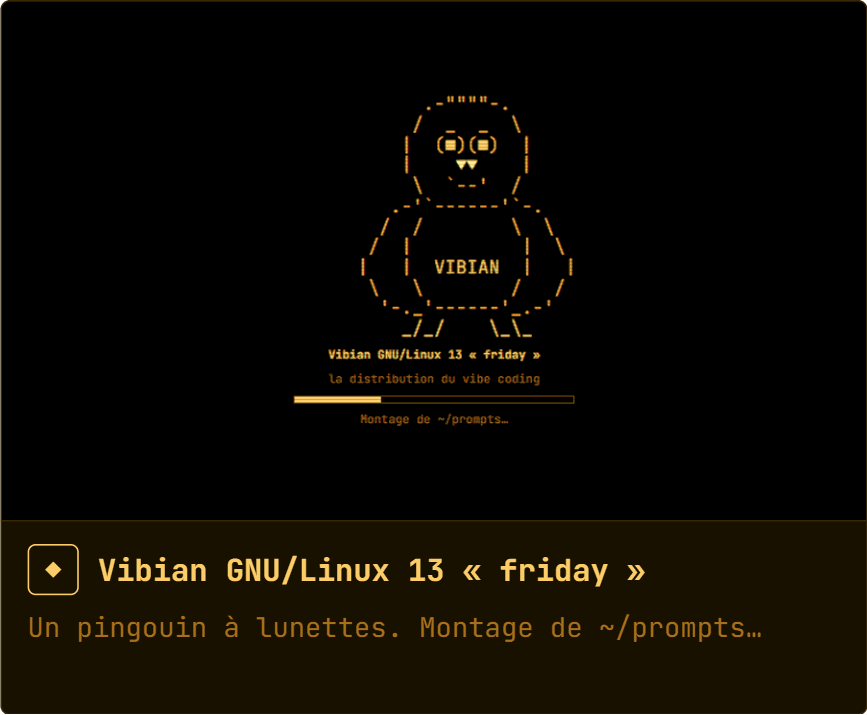
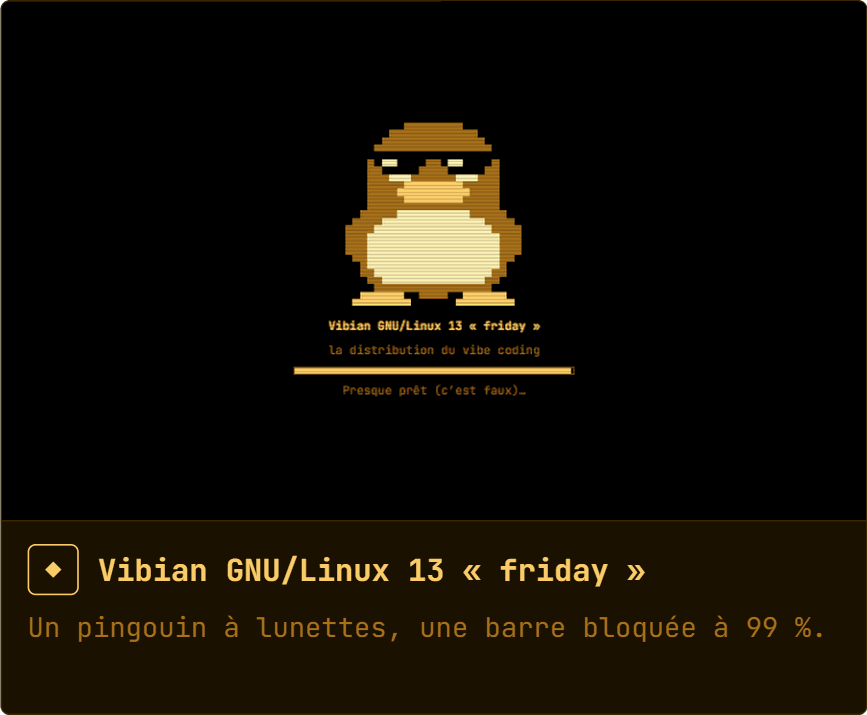
docs: les nouveautés passent à 23, le README chausse ses lunettes
- Mise à jour n° 23 sur la page des nouveautés : Lolama par apt,
  vibe « demande », le pingouin en pixel art, la barre qui s'arrête à
  99 %. Une capture : le nouveau pingouin.
- README : Lolama s'installe avec apt, « Vibe à la demande » dans les
  fonctionnalités, le démarrage et sa barre, la carte du pingouin.
- Lignes du jeu : 10 924 → 10 971 (README, CONTRIBUTING, badge,
  bannière, schéma, chiffres). Lignes relues : 0. Barres bloquées à
  99 % : une, et c'est voulu.

Claude-Session: https://claude.ai/code/session_01Ly259ZiaRJJ7AzLMxAi3nU

Changed region(s): [[0.3426, 0.1231, 0.6851, 0.6154], [0.4671, 0.8615, 0.9343, 0.8923]]

diff --git a/nouveautes.html b/nouveautes.html
@@ -136,9 +136,9 @@ footer p + p { margin-top: .5em; }
   </nav>
 
   <div class="stats" role="list" aria-label="En chiffres">
-    <div role="listitem"><b>22</b><span>mises à jour</span></div>
-    <div role="listitem"><b>36 h 58</b><span>du premier au dernier commit</span></div>
-    <div role="listitem"><b>6 492 → 10 924</b><span>lignes dans index.html</span></div>
+    <div role="listitem"><b>23</b><span>mises à jour</span></div>
+    <div role="listitem"><b>38 h 08</b><span>du premier au dernier commit</span></div>
+    <div role="listitem"><b>6 492 → 10 971</b><span>lignes dans index.html</span></div>
     <div role="listitem"><b>0</b><span>ligne relue (stable)</span></div>
   </div>
   <p class="legend"><b class="p">+</b> ajouté · <b class="t">~</b> modifié · <b class="m">−</b> retiré</p>
@@ -146,6 +146,7 @@ footer p + p { margin-top: .5em; }
   <nav class="toc" aria-labelledby="toc-t">
     <h2 id="toc-t">Sommaire</h2>
     <ol>
+      <li><span class="n">#23</span><time datetime="2026-11-24T01:35">01 h 35</time><a href="#correctifs">Correctifs : Lolama par apt, vibe « demande », un pingouin tout neuf</a></li>
       <li><span class="n">#22</span><time datetime="2026-11-24T00:25">00 h 25</time><a href="#nano">nano, et des réglages qui ont leur propre écran</a></li>
       <li><span class="n">#21</span><time datetime="2026-11-23T23:07">23 h 07</time><a href="#vlc">VLC, et la première musique faite par un humain</a></li>
       <li><span class="n">#20</span><time datetime="2026-11-23T20:54">20 h 54</time><a href="#sauvegarde">Exporter et importer la partie</a></li>
@@ -171,8 +172,23 @@ footer p + p { margin-top: .5em; }
     </ol>
   </nav>
 
-  <article class="maj latest" id="nano" aria-labelledby="t22">
-    <p class="meta"><span class="n">#22</span><span class="new">dernière</span><time datetime="2026-11-24T00:25">24 nov. 2026 · 00 h 25</time><a href="https://github.com/lucv78-coder/ai-devops-chaos-simulator/commit/012df46">012df46</a><span>10 558 → 10 924 lignes</span></p>
+  <article class="maj latest" id="correctifs" aria-labelledby="t23">
+    <p class="meta"><span class="n">#23</span><span class="new">dernière</span><time datetime="2026-11-24T01:35">24 nov. 2026 · 01 h 35</time><a href="https://github.com/lucv78-coder/ai-devops-chaos-simulator/commit/18bfe89">18bfe89</a><span>10 924 → 10 971 lignes</span></p>
+    <h2 id="t23"><a href="#correctifs">Correctifs : Lolama par apt, vibe « demande », un pingouin tout neuf</a></h2>
+    <ul>
+      <li>Lolama est un paquet : sudo apt install lolama (ollama marche aussi). apt remove le retire. Le bouton de lolama.vibe et le script curl restent, et apt sait ce qu’ils ont installé.</li>
+      <li>Une commande inconnue reste inconnue, même quand les agents tournent : plus de code au hasard pour une faute de frappe. Le code se demande : vibe « fais un site » (ou vibe -p « … », comme le vrai Vibe CLI) l’écrit tout de suite dans le terminal, et le facture à Codestral. vibe seul lance toujours l’équipe Mistral.</li>
+      <li>Le pingouin du démarrage est redessiné en pixel art : masque blanc, bec, ailerons, et des lunettes de soleil qui lui tombent sur les yeux pendant le chargement. Il se dandine (sauf si le système demande moins d’animations).</li>
+      <li>La barre de chargement de Vibian avance par à-coups : des bonds, des arrêts, jamais au même endroit, et 99 % qui dure. Comme une vraie.</li>
+    </ul>
+    <blockquote>« 99 %, c’est déjà presque fini. Comme mes tests. »<cite>l’agent, 01 h 35</cite></blockquote>
+    <div class="shots">
+      <figure><a href="assets/screen-tux.png" title="Voir en grand"><img src="assets/screen-tux.png" width="900" height="540" loading="lazy" alt="L’écran de démarrage de Vibian GNU/Linux 13 « friday » : un pingouin en pixel art, lunettes de soleil sur les yeux, et la barre de chargement bloquée à 99 % sur « Presque prêt (c’est faux)… »."></a><figcaption>Le nouveau pingouin, et 99 % qui dure.</figcaption></figure>
+    </div>
+  </article>
+
+  <article class="maj" id="nano" aria-labelledby="t22">
+    <p class="meta"><span class="n">#22</span><time datetime="2026-11-24T00:25">24 nov. 2026 · 00 h 25</time><a href="https://github.com/lucv78-coder/ai-devops-chaos-simulator/commit/012df46">012df46</a><span>10 558 → 10 924 lignes</span></p>
     <h2 id="t22"><a href="#nano">nano, et des réglages qui ont leur propre écran</a></h2>
     <ul>
       <li>nano, l’éditeur du terminal : nano fichier (sudo nano pour ceux de root ; pico aussi). La barre du haut, la ligne d’état, deux lignes de raccourcis, qui se cliquent : ^O écrire, ^X quitter (« Sauver le tampon modifié ? »), ^F chercher, ^\ remplacer, ^K couper, ^U coller, ^R insérer un fichier, ^C la position, ^G l’aide. Sous Xfce, il a sa fenêtre.</li>

diff --git a/README.md b/README.md
@@ -16,7 +16,7 @@
   <img src="assets/badges/build.svg" alt="build : passing / failing / hallucinating / vibing">
   <img src="assets/badges/coverage.svg" alt="coverage : 98 % / 137 % / 420 % / NaN %">
   <img src="assets/badges/tests.svg" alt="tests : 0 / 0 passed">
-  <img src="assets/badges/relues.svg" alt="lignes relues : 0 / 10 924">
+  <img src="assets/badges/relues.svg" alt="lignes relues : 0 / 10 971">
   <br>
   <img src="assets/badges/review.svg" alt="code review : LGTM (par l'agent)">
   <img src="assets/badges/deploy.svg" alt="deploy : vendredi 17 h">
@@ -50,11 +50,12 @@ C'est un idle game : le jeu se joue tout seul. Comme votre carrière depuis 2025
 - **Agentic-first.** De 1 à 8 agents en parallèle, plus un orchestrateur qui délègue tout, y compris la délégation.
 - **Zero-shot deploy.** La barre de ship se remplit toute seule et le projet part en prod sans que personne sache ce qu'il contient. Exactement comme en vrai.
 - **Hallucination-native.** Les agents Mistral inventent des fichiers, des API, des bugs et, une fois, un collègue.
+- **Vibe à la demande.** `vibe "fais un site"` : Vibe CLI écrit le code tout de suite dans le terminal, et le facture. Une faute de frappe, elle, reste une faute de frappe : plus de code au hasard.
 - **Token-aware.** Chaque ship rapporte de l'argent, moins la facture des tokens. Spoiler : la facture gagne souvent.
 - **Store intégré.** Trois rayons : agents IA, plateformes, matériel PC. Trois niveaux d'orchestrateur, des modèles plus chers, un terminal plus rapide et 14 skills, de « tests unitaires » à « lire CLAUDE.md (pour de vrai) », à un million de dollars.
 - **Multi-plateforme.** Démarrez sur le pire agent, puis achetez Codex et Claude Code. Chaque plateforme garde son équipe : une au premier plan, les autres en arrière-plan, si le PC suit. Avant, c'était un choix irréversible, comme un mariage. Maintenant, c'est trois factures de tokens.
 - **Modes boost.** `ultracode` pour Claude Code, `xhigh` pour Codex, `flash` pour Mistral : achetés au store, une minute par jour, prolongeables jusqu'à trois. L'agent a demandé un mode boost pour le mode boost. On lui a dit de revenir demain.
-- **IA locale.** Installez Lolama ou StudioLM depuis Firefaux, puis un modèle de 2 à 72 milliards de paramètres. Zéro token facturé, toute la VRAM prise. Chaque agent ajouté double la VRAM demandée, et un modèle trop gros pour la carte graphique fait redémarrer le PC sur un kernel panic. L'agent appelle ça « de l'inférence souveraine ».
+- **IA locale.** Installez Lolama (`sudo apt install lolama`, ou depuis Firefaux) ou StudioLM, puis un modèle de 2 à 72 milliards de paramètres. Zéro token facturé, toute la VRAM prise. Chaque agent ajouté double la VRAM demandée, et un modèle trop gros pour la carte graphique fait redémarrer le PC sur un kernel panic. L'agent appelle ça « de l'inférence souveraine ».
 - **Progression à la sueur des tokens.** Le deuxième agent arrive en moins de 3 minutes, l'orchestrateur vers 30 minutes, Claude Code vers 1 h 35, la fin du store vers 5 h. Ce sont les chiffres d'un joueur parfait simulé, et vous n'êtes pas un joueur parfait.
 - **Mode hors ligne.** Vos agents continuent de shipper pendant votre absence, 4 h au maximum : le temps d'une réunion qui aurait pu être un mail.
 - **Bureau Linux complet.** `xfce` lance un vrai faux bureau avec fenêtres, icônes à double-cliquer, gestionnaire de fichiers, éditeur et lecteur PDF. Le gestionnaire de fichiers copie, coupe, colle, renomme et affiche les propriétés, à la vitesse du disque : 41,3 Go à 90 Mo/s, le disque dur gratte. `~/code` contient sept projets abandonnés, dont une IA de 68 Go et la todo app n° 14. Le disque est sauvegardé avec la partie : ce que vous créez ou supprimez est toujours là au prochain lancement, jusqu'au prochain crash système (retour à la sauvegarde de jeudi). La corbeille est toujours vide : ici, on supprime avec `rm -rf`. Vous pouvez supprimer `/bin`, ou le renommer. Vous ne devriez pas.
@@ -66,12 +67,12 @@ C'est un idle game : le jeu se joue tout seul. Comme votre carrière depuis 2025
 - **Kernel panic certifié.** L'écran donne la cause (« alimentation dépassée, 499 W demandés, 230 W disponibles »), une pile d'appels authentique (`tokens_burn_all`, `npm_install_universe`, `friday_deploy`), puis « Rebooting in 5 seconds.. ». Le PC redémarre sur le BIOS. Personne n'a lu la pile d'appels.
 - **Observabilité de niveau entreprise.** `htop` dit si le PC est OK, TENDU ou À TERRE, et pourquoi. `sensors` et `free` confirment. `sudo smartctl -a /dev/sda` lit le SMART du disque dur d'occasion : 38 412 heures, un secteur réalloué de plus tous les 5 jours, FAILED! dans 8 mois environ. L'agent, lui, dit que tout va bien.
 - **Firefaux.** Un navigateur dans Xfce, avec ses sites : Vibegle (résultats hallucinés), le store des agents, matos.vibe pour les composants, StackUnderflow, GitHype (le GitHub qui a racheté le nom de domaine) et lolama.vibe pour les modèles locaux. Toute autre adresse a été hallucinée par votre agent.
-- **Démarrage BIOS authentique.** Nouvelle partie et Continuer allument vraiment le PC : POST, GRUB, noyau `6.11.0-friday`, puis Vibian GNU/Linux et son pingouin. Neuf secondes sur la patate. Une touche pour passer, comme tout le monde. Ou Suppr pendant le POST, si vous êtes assez rapide : le setup du BIOS, façon AMIBIOS, pour overclocker le processeur et la RAM. Trop loin, l'écran glitche, les erreurs matérielles pleuvent et les agents plantent. On redescend d'un cran. `reboot` pour y retourner. Puis GRUB, avec un vrai menu : memtest86+ (enfin lancé), un mode sans agents, et un Windows 11 qui se met à jour.
+- **Démarrage BIOS authentique.** Nouvelle partie et Continuer allument vraiment le PC : POST, GRUB, noyau `6.11.0-friday`, puis Vibian GNU/Linux et son pingouin à lunettes, avec une barre de chargement qui avance par à-coups et s'arrête à 99 %. Neuf secondes sur la patate. Une touche pour passer, comme tout le monde. Ou Suppr pendant le POST, si vous êtes assez rapide : le setup du BIOS, façon AMIBIOS, pour overclocker le processeur et la RAM. Trop loin, l'écran glitche, les erreurs matérielles pleuvent et les agents plantent. On redescend d'un cran. `reboot` pour y retourner. Puis GRUB, avec un vrai menu : memtest86+ (enfin lancé), un mode sans agents, et un Windows 11 qui se met à jour.
 - **htop, tskill, apt, npm, un terminal de bunker antiatomique…** Tout ce qu'un agent a jugé indispensable à 3 h du matin.
 - **Bac à sable.** Une entrée du menu titre : tout est débloqué d'office (plateformes, 8 agents chacune, modèles, skills, matériel, modes boost sans limite par jour), avec une sauvegarde à part. La partie normale ne bouge pas. L'agent y a shippé 20 projets en 5 secondes.
 - **Bouton « tout effacer ».** Paramètres, Réinitialiser la partie, deux clics. L'agent a appris à demander confirmation. Une fois.
 - **Exporter, importer.** Paramètres, Exporter la partie : un fichier .vibe, et le même code dans le presse-papiers. Dans un autre navigateur, Importer une partie la reprend, disque, succès et temps de jeu compris. Les agents, eux, n'ont toujours pas de sauvegarde.
-- **Monolithe artisanal.** 1 fichier, 10 924 lignes, 0 dépendance. Une seule exception : une police d'écriture, l'agent a insisté. Le [journal des mises à jour](https://lucv78-coder.github.io/ai-devops-chaos-simulator/nouveautes.html) a eu droit à sa propre page : l'agent venait de découvrir qu'on pouvait créer un deuxième fichier. Puis un troisième : le [wiki](https://lucv78-coder.github.io/ai-devops-chaos-simulator/wiki.html), illustré, avec toutes les commandes (chacune se copie d'un clic), le store et le matériel.
+- **Monolithe artisanal.** 1 fichier, 10 971 lignes, 0 dépendance. Une seule exception : une police d'écriture, l'agent a insisté. Le [journal des mises à jour](https://lucv78-coder.github.io/ai-devops-chaos-simulator/nouveautes.html) a eu droit à sa propre page : l'agent venait de découvrir qu'on pouvait créer un deuxième fichier. Puis un troisième : le [wiki](https://lucv78-coder.github.io/ai-devops-chaos-simulator/wiki.html), illustré, avec toutes les commandes (chacune se copie d'un clic), le store et le matériel.
 
 ## <img src="assets/readme/g-hardware.svg" width="30" height="30" align="top" alt=""> Le matériel
 
@@ -113,7 +114,7 @@ Livraison en 0 seconde, installation à chaud, garantie zéro jour. Ne faites pa
 | **Vibe CLI** (Mistral) | gratuite | Codestral 25.08 | « Production-ready. » Il hallucine, plante, redémarre, et recommence. |
 | **Codex** | $1 500 | GPT-6.1 Terra : 1,6× le travail de Codestral, trois fois moins de bugs | « Enfin du sérieux. » |
 | **Claude Code** | $12 000 | Claude Opus 5.5 : 2,5× le travail de Codestral, quatre fois moins de bugs | « Celui-là signe ses commits. » |
-| **IA locale** (Lolama ou StudioLM) | gratuite, à installer depuis Firefaux | Jemma 3 2B : 13 % du travail de Codestral, 1,7 Go de VRAM | « Souverain. » Il tourne sur un grille-pain, à la vitesse d'un grille-pain. |
+| **IA locale** (Lolama ou StudioLM) | gratuite : `sudo apt install lolama`, ou depuis Firefaux | Jemma 3 2B : 13 % du travail de Codestral, 1,7 Go de VRAM | « Souverain. » Il tourne sur un grille-pain, à la vitesse d'un grille-pain. |
 
 - **Chaque plateforme a son équipe.** Une licence recrute votre équipe à l'identique et la passe au premier plan. L'ancienne n'est pas licenciée : elle attend dans un tmux détaché.
 - **Premier plan, arrière-plan.** Une plateforme tient l'onglet des agents, les autres travaillent en fond. Il faut 4 threads et 8 Go pour deux plateformes, 12 threads et 16 Go pour trois. La RAM, l'alim et la chauffe sont vérifiées avant le lancement.
@@ -138,7 +139,7 @@ Livraison en 0 seconde, installation à chaud, garantie zéro jour. Ne faites pa
 
 ## <img src="assets/readme/g-architecture.svg" width="30" height="30" align="top" alt=""> Architecture
 
-<p align="center"><img src="assets/architecture.svg" width="100%" alt="Schéma : vous, puis l'agent IA en mode YOLO, puis index.html (10 924 lignes), puis la prod en feu. Une boucle relie la prod à l'agent : bug, « corrige », deux bugs. Sur le côté, barrés : tests, revue de code, Kubernetes, microservices, documentation, promis par l'agent et jamais livrés."></p>
+<p align="center"><img src="assets/architecture.svg" width="100%" alt="Schéma : vous, puis l'agent IA en mode YOLO, puis index.html (10 971 lignes), puis la prod en feu. Une boucle relie la prod à l'agent : bug, « corrige », deux bugs. Sur le côté, barrés : tests, revue de code, Kubernetes, microservices, documentation, promis par l'agent et jamais livrés."></p>
 
 > Architecture validée par l'agent qui l'a écrite. Revue par les pairs : le même agent, dans une autre fenêtre de contexte. Conclusion : « excellente architecture, rien à signaler ».
 
@@ -187,7 +188,7 @@ Ou, plus simple : **[jouez en ligne](https://lucv78-coder.github.io/ai-devops-ch
 - `htop` ;
 - `plateformes`, `switch codex` et `bg mistral` ;
 - `ultracode` (ou `xhigh`, `flash`), une fois le mode acheté ;
-- `lolama pull 4b`, `lolama run 4b` et `lolama ps` (ou `studiolm load 4b`), une fois Lolama installé depuis Firefaux ;
+- `lolama pull 4b`, `lolama run 4b` et `lolama ps` (ou `studiolm load 4b`), une fois Lolama installé (`sudo apt install lolama`) ;
 - `sensors` et `free` ;
 - `sudo smartctl -a /dev/sda`, une fois smartmontools installé ;
 - `firefaux` (ou `firefox`, il ne fait pas la différence) ;
@@ -218,7 +219,7 @@ Ou, plus simple : **[jouez en ligne](https://lucv78-coder.github.io/ai-devops-ch
   <a href="assets/screen-xfce.png"><img src="assets/readme/cap-xfce.png" width="49%" alt="Le bureau Xfce. Le bureau Xfce : les icônes en colonnes à gauche (dossier personnel, système de fichiers, corbeille, terminal, Firefaux, Steam, Vibe CLI, Claude Code, store), puis Claude Code, le gestionnaire de fichiers et htop dans des fenêtres."></a>
   <a href="assets/screen-gameover.png"><img src="assets/readme/cap-gameover.png" width="49%" alt="Mistral, un vendredi. Écran GAME OVER après un ship avec Mistral : 8 agents perdus, dignité 404."></a>
   <a href="assets/screen-post.png"><img src="assets/readme/cap-post.png" width="49%" alt="Le BIOS AMIVIBES, An Energy Star Ally. Le POST du BIOS AMIVIBES : Céléri G530 à 2,4 GHz, « Press DEL or F2 to run Setup », 4096MB OK, « CPU Fan Error! Press F1 » pressé automatiquement par un agent, l’alimentation no-name qui siffle à +12 V, le disque dur détecté, logo Energy Star redessiné en haut à droite."></a>
-  <a href="assets/screen-tux.png"><img src="assets/readme/cap-tux.png" width="49%" alt="Vibian GNU/Linux 13 « friday ». Écran de démarrage de Vibian GNU/Linux : un pingouin en ASCII avec des lunettes de soleil et VIBIAN sur le ventre, une barre de chargement et le message « Montage de ~/prompts… »."></a>
+  <a href="assets/screen-tux.png"><img src="assets/readme/cap-tux.png" width="49%" alt="Vibian GNU/Linux 13 « friday ». Écran de démarrage de Vibian GNU/Linux : un pingouin en pixel art avec des lunettes de soleil, et la barre de chargement bloquée à 99 % sur « Presque prêt (c’est faux)… »."></a>
   <a href="assets/screen-htop-patate.png"><img src="assets/readme/cap-htop-patate.png" width="49%" alt="htop : le PC est à terre. htop avec quatre agents sur le PC patate : deux cœurs saturés, swap entamé, 94 °C en rouge, et la ligne « État du PC : À TERRE · CPU saturé · swap 0,6 Go · throttling à 94 °C »."></a>
   <a href="assets/screen-matos.png"><img src="assets/readme/cap-matos.png" width="49%" alt="matos.vibe, dans Firefaux. Le navigateur Firefaux sur matos.vibe : la config actuelle, le diagnostic « patate », et les processeurs du Céléri G530 au ThreadFlipper 7980X à 32 000 dollars."></a>
   <a href="assets/screen-store-pc.png"><img src="assets/readme/cap-store-pc.png" width="49%" alt="Le rayon Matériel : commande bloquée. Le rayon Matériel PC du store : la jauge d'alimentation à 125 W sur 300, une carte mère B450 dans le panier, deux incompatibilités en rouge (le Céléri G530 n'a pas le bon socket, la DDR3 n'est pas la bonne génération) et le bouton « Commande bloquée »."></a>
@@ -274,14 +275,14 @@ Ou, plus simple : **[jouez en ligne](https://lucv78-coder.github.io/ai-devops-ch
 **Le code a-t-il été relu ?**
 Non. Question suivante.
 
-**Pourquoi un seul fichier de 10 924 lignes ?**
+**Pourquoi un seul fichier de 10 971 lignes ?**
 L'agent ne savait pas qu'on pouvait créer d'autres fichiers. On n'a pas voulu le contrarier. Il l'a découvert le jour où il a fallu écrire [les nouveautés](https://lucv78-coder.github.io/ai-devops-chaos-simulator/nouveautes.html). Le jeu, lui, tient toujours dans un seul fichier.
 
 **Est-ce que ça scale ?**
 Ça tient dans un onglet de navigateur. C'est plus que la plupart des startups. Et maintenant, ça scale horizontalement : il suffit d'acheter une alim plus grosse.
 
 **Pourquoi le jeu démarre-t-il avec un BIOS ?**
-Charger 10 924 lignes de HTML prend 0,1 seconde. C'était trop rapide pour être crédible.
+Charger 10 971 lignes de HTML prend 0,1 seconde. C'était trop rapide pour être crédible.
 
 **Mon PC siffle, c'est normal ?**
 Dans le jeu, c'est l'alim no-name : changez-la. Dans la vraie vie, aussi.

diff --git a/CONTRIBUTING.md b/CONTRIBUTING.md
@@ -13,7 +13,7 @@ Merci de vouloir contribuer. Votre agent aussi, sans doute.
 ## Les règles
 
 - **Pas de tests.** Ils feraient échouer la CI. Si vous en ajoutez, qu'ils passent, ou qu'ils ne testent rien.
-- **Un seul fichier.** `index.html` fait 10 924 lignes. On avait annoncé 7 000, puis 10 000 : objectifs dépassés, sans relecture. Prochaine étape : 15 000. C'est le chemin.
+- **Un seul fichier.** `index.html` fait 10 971 lignes. On avait annoncé 7 000, puis 10 000 : objectifs dépassés, sans relecture. Prochaine étape : 15 000. C'est le chemin.
 - **Pas d'émojis.** C'est la seule règle relue par un humain. Elle est donc sacrée.
 - **Les messages de commit** doivent contenir le mot « fix », même pour une nouvelle fonctionnalité. Surtout pour une nouvelle fonctionnalité.
 
